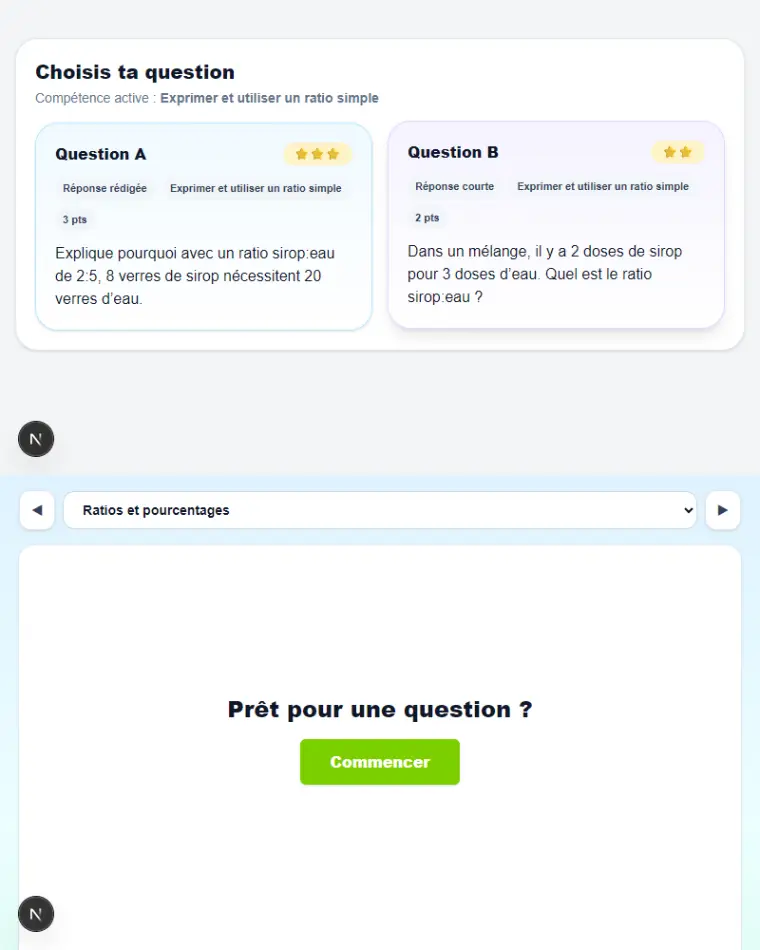
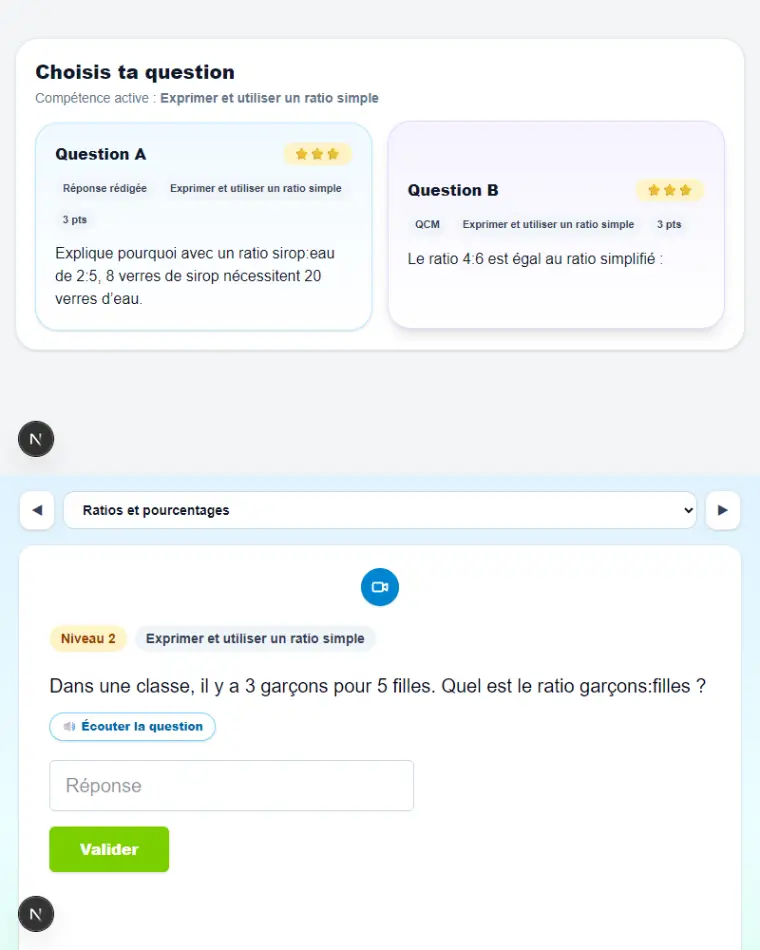
L'apercu du coach dit quel mode il montre, et le francais de 5e entre au registre
1. LE LIBELLE (Frederic : « et si on rajoutait en en-tete Mode complet / Mode
   simple ? »). Les deux ecrans d'une notion ne sont pas deux moities d'une
   page mais DEUX VUES du tutor, et rien ne le disait : les pastilles annoncent
   qu'il y a une suite, pas ce qu'elle contient. L'en-tete affiche maintenant
   « Mode complet » puis « Mode simple », et change avec l'image.
   ⚠ C'est un COMPOSANT, pas du pixel : aucune capture n'est a refaire, le
   texte reste lisible a 380 px et un lecteur d'ecran peut l'atteindre.
   Les cartes de l'accueil n'ont pas de libelle — leurs deux ecrans sont le
   haut et le bas d'une meme page, « Ecran 1 / Ecran 2 » n'apprendrait rien.

2. FRANCAIS 5e : 19 notions capturees sur 28.

3. LE CHRONOMETRE DEVIENT UNE VERIFICATION. En vue simple, le script attendait
   2,5 secondes apres le clic sur « Commencer » — chronometre a la main. Ca
   marchait la plupart du temps et laissait des trous AU HASARD : la seconde
   bande montrait « Pret pour une question ? » et son bouton au lieu d'un
   exercice, dans un fichier d'un poids parfaitement normal. Il attend
   maintenant que cet ecran s'efface. Meme procedure — ouvrir, cliquer,
   photographier ; seul le delai fixe disparait.
   Meme correction sur le bouton lui-meme : on l'ATTEND au lieu de demander
   s'il est deja la. Un `isVisible()` pose a l'arrivee ne mesure pas la page,
   il mesure a quel moment on a pose la question.
[…]

diff --git a/components/matrice/FenetreApercu.tsx b/components/matrice/FenetreApercu.tsx
@@ -116,11 +116,26 @@ export default function FenetreApercu({
   /** Où la fenêtre se pose dans son parent `relative`. Les cartes de l'accueil
    *  la centrent sur leur bord droit ; le coach la pose sous le titre. */
   position = "absolute right-3 top-1/2 -translate-y-1/2",
+  /**
+   * CE QUE MONTRE CHAQUE ÉCRAN, quand ça ne va pas de soi.
+   *
+   * Frédéric, 27/08 : « et si on rajoutait en en-tête Mode complet / Mode
+   * simple ? ». Sur le coach, les deux écrans ne sont pas deux moitiés d'une
+   * page mais DEUX VUES du tutor — et rien ne le disait. Les pastilles
+   * annoncent qu'il y a une suite, pas ce qu'elle contient : on regardait deux
+   * écrans différents sans savoir qu'on avait le choix entre les deux.
+   *
+   * ⚠ Sur les cartes de l'accueil, on ne met rien : les deux écrans y sont le
+   * haut et le bas d'une même page, et « Écran 1 / Écran 2 » n'apprendrait rien
+   * à personne. Le libellé sert quand il NOMME quelque chose.
+   */
+  libelles,
 }: {
   src: string;
   ecrans: number;
   ouverte: boolean;
   position?: string;
+  libelles?: string[];
 }) {
   const [index, setIndex] = useState(0);
 
@@ -161,8 +176,12 @@ export default function FenetreApercu({
           arrivée d'un autre site. */}
       <div className="overflow-hidden border-2 border-[#1d1c16] bg-white shadow-[6px_6px_0_#1d1c16]">
         <div className="flex items-center justify-between gap-2 border-b-2 border-[#1d1c16]/15 bg-[#f6f4ee] px-2.5 py-1.5">
-          <span className="text-[10px] font-bold uppercase tracking-wide text-[#1d1c16]/55">
-            Aperçu
+          {/* ⚠ Le libellé de l'écran COURANT, sinon « Aperçu ». Il change en
+              même temps que l'image : c'est lui qui fait comprendre que la
+              seconde pastille n'est pas la suite de la première, mais l'autre
+              façon de voir la même notion. */}
+          <span className="truncate text-[10px] font-bold uppercase tracking-wide text-[#1d1c16]/55">
+            {libelles?.[index] ?? "Aperçu"}
           </span>
           {/* Les pastilles. Une seule capture = une seule pastille, et elle dit
               alors « c'est tout », ce qui est une information honnête. */}

diff --git a/scripts/capturer-apercus-coach.ts b/scripts/capturer-apercus-coach.ts
@@ -411,11 +411,39 @@ async function capturerUneVue(page: Page, c: Cible, vue: string): Promise<Buffer
    * question se poser une fois le départ donné.
    */
   if (vue === "simple") {
+    /**
+     * ⚠ ON ATTEND LE BOUTON, ON NE DEMANDE PAS S'IL EST DÉJÀ LÀ.
+     *
+     * Un `isVisible()` posé à l'arrivée sur la page ne mesure pas l'état de la
+     * page : il mesure à quel moment on a posé la question. React n'a pas fini
+     * de monter la vue, la réponse est « non », on ne clique pas — et on
+     * photographie l'écran de départ.
+     */
     const commencer = page.getByRole("button", { name: /^Commencer$/i }).first();
-    if (await commencer.isVisible().catch(() => false)) {
-      await commencer.click({ timeout: 15000 });
-    }
-    await page.waitForTimeout(2500);
+    const aDemarrer = await commencer
+      .waitFor({ state: "visible", timeout: 12000 })
+      .then(() => true)
+      .catch(() => false);
+    if (aDemarrer) await commencer.click({ timeout: 15000 });
+
+    /**
+     * ⚠ PUIS ON ATTEND QUE L'ÉCRAN DE DÉPART S'EFFACE, PAS DEUX SECONDES.
+     *
+     * Il y avait ici un `waitForTimeout(2500)`, chronométré à la main. Ça
+     * marchait la plupart du temps et laissait des trous AU HASARD : sur le
+     * français de 5e, la seconde bande montrait « Prêt pour une question ? » et
+     * son bouton « Commencer » au lieu d'un exercice — la moitié du panneau ne
+     * montrait rien, et le fichier était d'un poids normal.
+     * La procédure ne change pas — ouvrir, cliquer, photographier ; c'est le
+     * chronomètre qui devient une vérification.
+     */
+    await page.waitForFunction(
+      () => !document.body.innerText.includes("Prêt pour une question"),
+      undefined,
+      { timeout: 20000 },
+    );
+    // Le temps que l'énoncé se pose et que ses dessins se rendent.
+    await page.waitForTimeout(1000);
   }
 
   /**

diff --git a/components/coach/NotionAvecApercu.tsx b/components/coach/NotionAvecApercu.tsx
@@ -41,6 +41,26 @@ import { apercuNotion } from "@/lib/tutor-v4/apercus.generated";
  * ⚠ 1024 px, c'est le `lg:block` de FenetreApercu. Le CSS décide de ce qui se
  * VOIT, ce test décide de ce qui se CHARGE. Si l'un bouge, l'autre bouge avec.
  */
+/**
+ * CE QUE DIT L'EN-TÊTE DE CHAQUE ÉCRAN (Frédéric, 27/08 : « et si on rajoutait
+ * en en-tête Mode complet / Mode simple ? »).
+ *
+ * ⚠ LE NOMBRE D'ÉCRANS SUFFIT À SAVOIR LESQUELS, et ce n'est pas une devinette :
+ * c'est la règle de fabrication (scripts/capturer-apercus-coach.ts). Une notion
+ * dont la classe ouvre en vue complète est capturée deux fois, la vue par défaut
+ * d'abord — donc deux écrans, toujours dans cet ordre. Une classe qui n'a que la
+ * vue simple (le primaire, les niveaux du CECRL) n'en a qu'un, et c'est la
+ * simple. Il n'y a pas de troisième cas.
+ *
+ * ⛔ Ne pas remplacer ça par un champ dans le manifeste « pour être sûr » : un
+ * chiffre recopié à deux endroits finit par se contredire, alors qu'ici les deux
+ * faits n'en sont qu'un.
+ */
+const LIBELLES: Record<number, string[]> = {
+  1: ["Mode simple"],
+  2: ["Mode complet", "Mode simple"],
+};
+
 function peutSurvoler() {
   return typeof window !== "undefined"
     ? window.matchMedia("(any-hover: hover) and (min-width: 1024px)").matches
@@ -98,6 +118,7 @@ export default function NotionAvecApercu({
           ecrans={apercu.ecrans}
           ouverte={ouverte}
           position="absolute right-0 top-9"
+          libelles={LIBELLES[apercu.ecrans] ?? LIBELLES[1]}
         />
       )}
     </article>

diff --git a/lib/tutor-v4/apercus.generated.ts b/lib/tutor-v4/apercus.generated.ts
@@ -11,6 +11,25 @@
 // exactement ce qu'elle était.
 
 export const APERCUS_COACH: Readonly<Record<string, number>> = {
+  "francais/5e/conjugaison_formes": 2,
+  "francais/5e/conjugaison_temps": 2,
+  "francais/5e/culture_entrees_5e": 2,
+  "francais/5e/ecriture_produire": 2,
+  "francais/5e/ecriture_reflechir": 2,
+  "francais/5e/ecriture_reviser": 2,
+  "francais/5e/grammaire_fonctions": 2,
+  "francais/5e/grammaire_groupe_nominal": 2,
+  "francais/5e/grammaire_phrase": 2,
+  "francais/5e/grammaire_reprises": 2,
+  "francais/5e/lecture_comprehension": 2,
+  "francais/5e/lecture_voix_haute": 2,
+  "francais/5e/oral_dire_jouer": 2,
+  "francais/5e/oral_prendre_parole": 2,
+  "francais/5e/vocabulaire_enrichir": 2,
+  "francais/5e/vocabulaire_formation": 2,
+  "francais/5e/vocabulaire_jouer": 2,
+  "francais/5e/vocabulaire_orthographe": 2,
+  "francais/5e/vocabulaire_relations": 2,
   "maths/5e/aire_surface": 2,
   "maths/5e/algo_construire": 2,
   "maths/5e/algo_programmation": 2,
